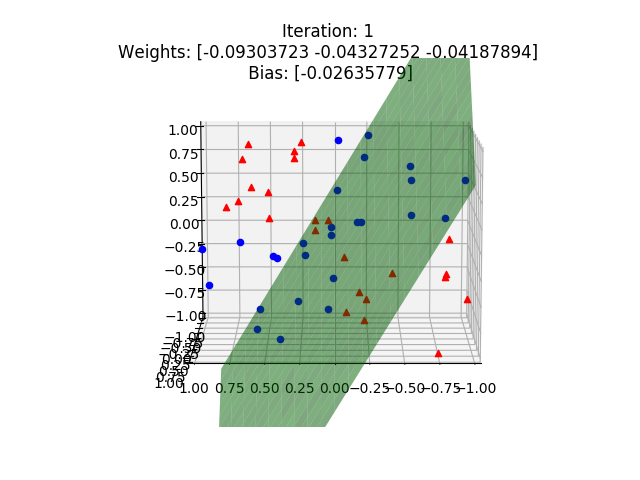
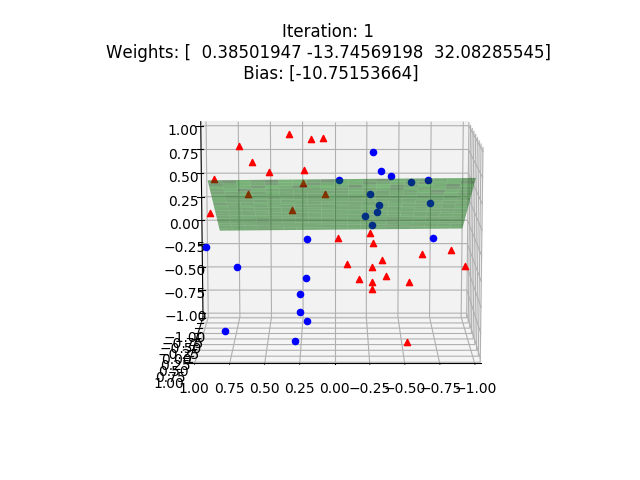
New Gifs

diff --git a/plot.py b/plot.py
@@ -84,7 +84,7 @@ def plot_graph(model, features, labels, epochs, dir):
     count = 1
     # For each iteration the perceptron runs, we plot the points in 3d space as well as the plane of separation
     # which is given by the weights and bias.
-    for weights, bias in model.train(features, lab_lin, epochs=epochs, c = .05):
+    for weights, bias in model.train(features, lab_lin, epochs=epochs, c = 10):
 
         fig = plt.figure()
         ax = fig.add_subplot(111, projection='3d')
